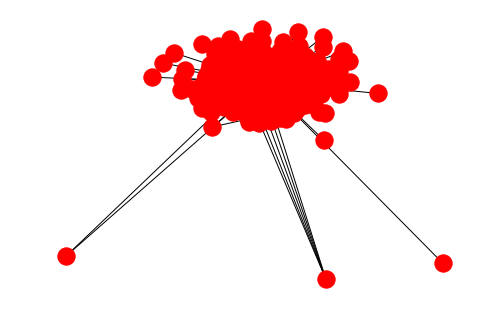
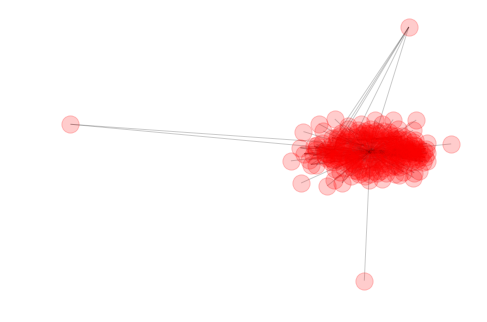
alpha

diff --git a/README.md b/README.md
@@ -75,7 +75,7 @@ ASIN: 1559362022
     2004-2-17  cutomer:  AUUVMSTQ1TXDI  rating: 1  votes:   2  helpful:   0
     2004-2-24  cutomer: A2C5K0QTLL9UAT  rating: 5  votes:   2  helpful:   2
     2004-10-13 cutomer:  A5XYF0Z3UH4HB  rating: 5  votes:   1  helpful:   1
-```
+    ```
 
 
 
@@ -361,6 +361,10 @@ print ("Ego Network for", books_meta_dict[asin]['Title'],
 nx.draw(ego, with_labels=True)
 ```
 
+
+![png](index_files/index_16_0.png)
+
+
 ## Level up - Optional 
 
 - Get the books titles from `books_meta_dict` dictionary re-draw the graph showing book titles instead of ASIN numbers. 
@@ -387,7 +391,7 @@ dcl = nx.degree(books_copurchase) # Check for degree centrality
 dc = dcl[temp_asin] # Degree centrality of chosen book 
 print ("Degree Centrality:", dc)
 temp_ego = nx.ego_graph(books_copurchase, temp_asin, radius=1)
-nx.draw(temp_ego)
+nx.draw(temp_ego, alpha=0.2)
 ```
 
     Brown Bear, Brown Bear, What Do You See?
@@ -447,7 +451,7 @@ print("\nASINs in the trimmed network: \n", list(trimmed_ego))
     Edges = 22
     
     ASINs in the trimmed network: 
-     ['0553574132', '0553477455', '0345400771', '0345320239', '0553574167', '0553574159', '0553477463', '0553574175', '0345394429', '0345379802']
+     ['0553477455', '0553574132', '0345320239', '0345379802', '0553574175', '0553574167', '0553574159', '0553477463', '0345400771', '0345394429']
 
 
 So now we have 10 nodes and 22 edges. That means we are getting 10 recommendations for the given book. You can play a bit more with the threshold value above to include and drop books from this list. We shall take these ASINs and make recommendations based on these for now. 
@@ -484,20 +488,25 @@ for nb_asin in lst_neighbors[1:]:
     Customers who bought this book, also bought:
     -------------------------------------------
     
-    Asin:  0553477455
-    Book Title:  The Hutt Gambit (Star Wars: The Han Solo Trilogy, Vol. 2)
+    Asin:  0553574132
+    Book Title:  Star Wars: Shadows of the Empire
     Average Rating: 4.5
-    Number of Reviews:  68
-    
-    Asin:  0345400771
-    Book Title:  Star Wars, Episode IV - A New Hope
-    Average Rating: 4.5
-    Number of Reviews:  25
+    Number of Reviews:  325
     
     Asin:  0345320239
     Book Title:  Star Wars: Splinter of the Mind's Eye
     Average Rating: 3.5
     Number of Reviews:  66
+    
+    Asin:  0345379802
+    Book Title:  Star Wars: The Han Solo Adventures
+    Average Rating: 4.0
+    Number of Reviews:  31
+    
+    Asin:  0553574175
+    Book Title:  Rebel Dawn : Star Wars : The Han Solo Trilogy - Volume Three (Star Wars: Han Solo Trilogy (Paperback))
+    Average Rating: 4.5
+    Number of Reviews:  98
     
     Asin:  0553574167
     Book Title:  The Hutt Gambit (Star Wars: The Han Solo Trilogy, Vol. 2)
@@ -514,18 +523,13 @@ for nb_asin in lst_neighbors[1:]:
     Average Rating: 4.5
     Number of Reviews:  97
     
-    Asin:  0553574175
-    Book Title:  Rebel Dawn : Star Wars : The Han Solo Trilogy - Volume Three (Star Wars: Han Solo Trilogy (Paperback))
+    Asin:  0345400771
+    Book Title:  Star Wars, Episode IV - A New Hope
     Average Rating: 4.5
-    Number of Reviews:  98
+    Number of Reviews:  25
     
     Asin:  0345394429
     Book Title:  Star Wars: The Han Solo Adventures (Classic Star Wars)
-    Average Rating: 4.0
-    Number of Reviews:  31
-    
-    Asin:  0345379802
-    Book Title:  Star Wars: The Han Solo Adventures
     Average Rating: 4.0
     Number of Reviews:  31
 
